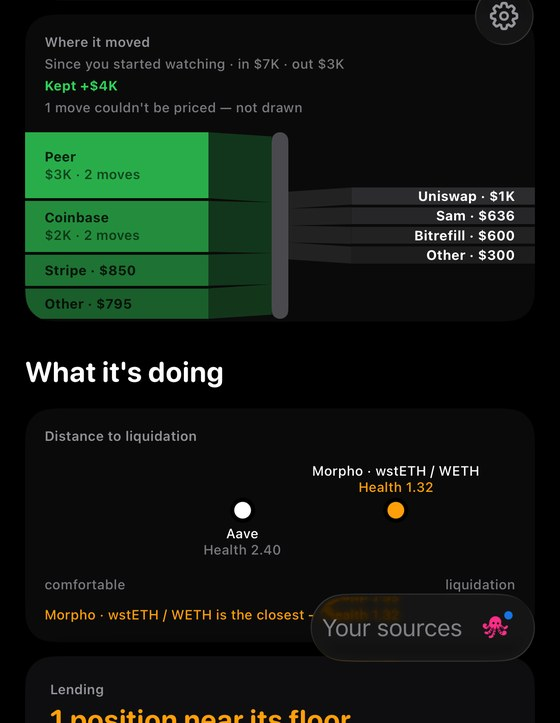
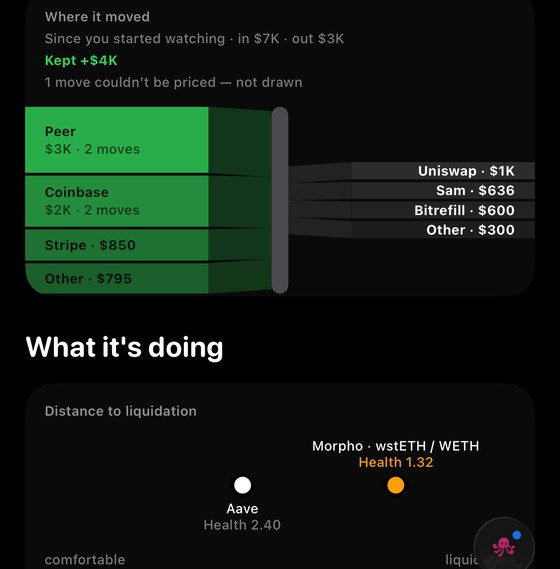
The sankey shows whole, the pills shed their formats, and the cards name four sources
The middle proof was cover-cropped — the frame ate the left edge of
every label. Re-captured settled, cropped tight around the band plus
the liquidation strip, and contain-fit centered so the whole reading
shows. The source pills lose their address-format sublines (user:
'remove this') — Your cards keeps its subline and names all four:
Apple Card, Privacy.com, ether.fi, Gnosis Pay.

diff --git a/website/wallet.html b/website/wallet.html
@@ -9,7 +9,7 @@
 <meta property="og:description" content="Everything the Wallet reads: EVM, Bitcoin, Solana and Apple Card. Read-only, always.">
 <meta property="og:type" content="website">
 <link rel="icon" href="icons/casberi-octopus.png">
-<link rel="stylesheet" href="styles.css?v=202608220420">
+<link rel="stylesheet" href="styles.css?v=202608220500">
 </head>
 <body>
 
@@ -36,17 +36,17 @@
   </header>
 
   <div class="w-nets">
-    <div class="w-net"><b><i style="background:#7c3aed"></i>EVM</b><div class="fmt">0x&hellip; &middot; ENS &middot; Basename</div></div>
-    <div class="w-net"><b><i style="background:#e8961c"></i>Bitcoin</b><div class="fmt">1&hellip; 3&hellip; bc1q&hellip; bc1p&hellip;</div></div>
-    <div class="w-net"><b><i style="background:#2bc16a"></i>Solana</b><div class="fmt">base58 &middot; .sol</div></div>
-    <div class="w-net card"><b><i style="background:#1c66db"></i>Your cards</b><div class="fmt">Apple Card &middot; Privacy.com</div></div>
+    <div class="w-net"><b><i style="background:#7c3aed"></i>EVM</b></div>
+    <div class="w-net"><b><i style="background:#e8961c"></i>Bitcoin</b></div>
+    <div class="w-net"><b><i style="background:#2bc16a"></i>Solana</b></div>
+    <div class="w-net card"><b><i style="background:#1c66db"></i>Your cards</b><div class="fmt">Apple Card &middot; Privacy.com &middot; ether.fi &middot; Gnosis Pay</div></div>
   </div>
   <p class="w-never">Never trades &middot; never moves funds</p>
   </div>
 
   <div class="w-trio">
     <div class="fphone"><span class="fisland"></span><img class="still" src="flow/room-wallet.jpg" alt="What you hold — one total across every wallet." loading="lazy"></div>
-    <div class="fphone" style="border-radius:26px"><img class="still" src="flow/wallet-sankey.jpg" alt="Where it moved — money in and out, by counterparty." loading="lazy"></div>
+    <div class="fphone" style="border-radius:26px"><img class="still" src="flow/wallet-sankey.jpg" alt="Where it moved — money in and out, by counterparty." loading="lazy" style="object-fit:contain;object-position:center;background:#0b0910"></div>
     <div class="fphone"><span class="fisland"></span><img class="still" src="flow/wallet-connected.jpg" alt="Which of your addresses have transacted with each other." loading="lazy"></div>
   </div>
 

diff --git a/website/docs.html b/website/docs.html
@@ -9,7 +9,7 @@
 <meta property="og:description" content="What Casberi is, why it exists, and how to use it.">
 <meta property="og:type" content="article">
 <link rel="icon" href="icons/casberi-octopus.png">
-<link rel="stylesheet" href="styles.css?v=202608220420">
+<link rel="stylesheet" href="styles.css?v=202608220500">
 <style>
   /* ---------- docs page styles (page-scoped) ---------- */
   /* SF Rounded for display type — ui-rounded resolves to SF Rounded on Apple

diff --git a/website/index.html b/website/index.html
@@ -11,8 +11,8 @@
 <meta property="og:type" content="website">
 <meta name="base:app_id" content="6a87baa6ddcaae5e9cdba4d6">
 <!-- og:image needs a hosted PNG (1200x630) — add when the domain is live -->
-<link rel="stylesheet" href="styles.css?v=202608220420">
-<script src="app.js?v=202608220420" defer></script>
+<link rel="stylesheet" href="styles.css?v=202608220500">
+<script src="app.js?v=202608220500" defer></script>
 </head>
 <body>
 
